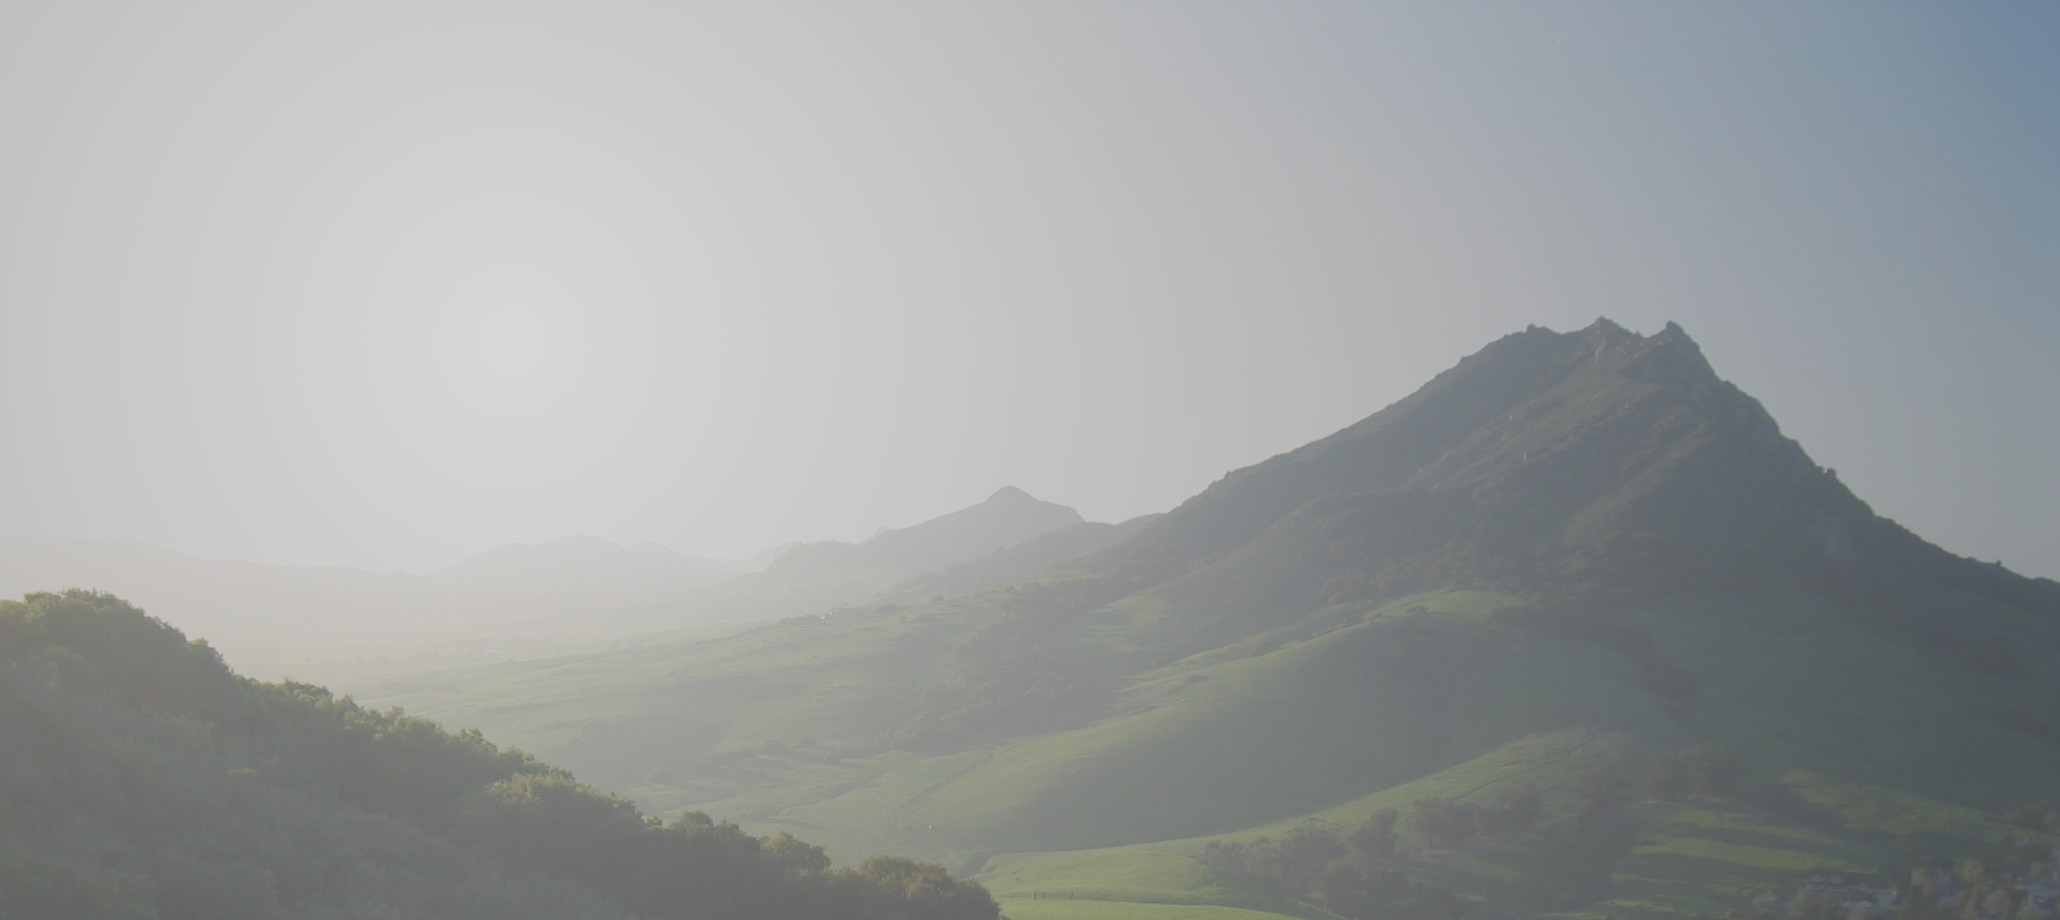
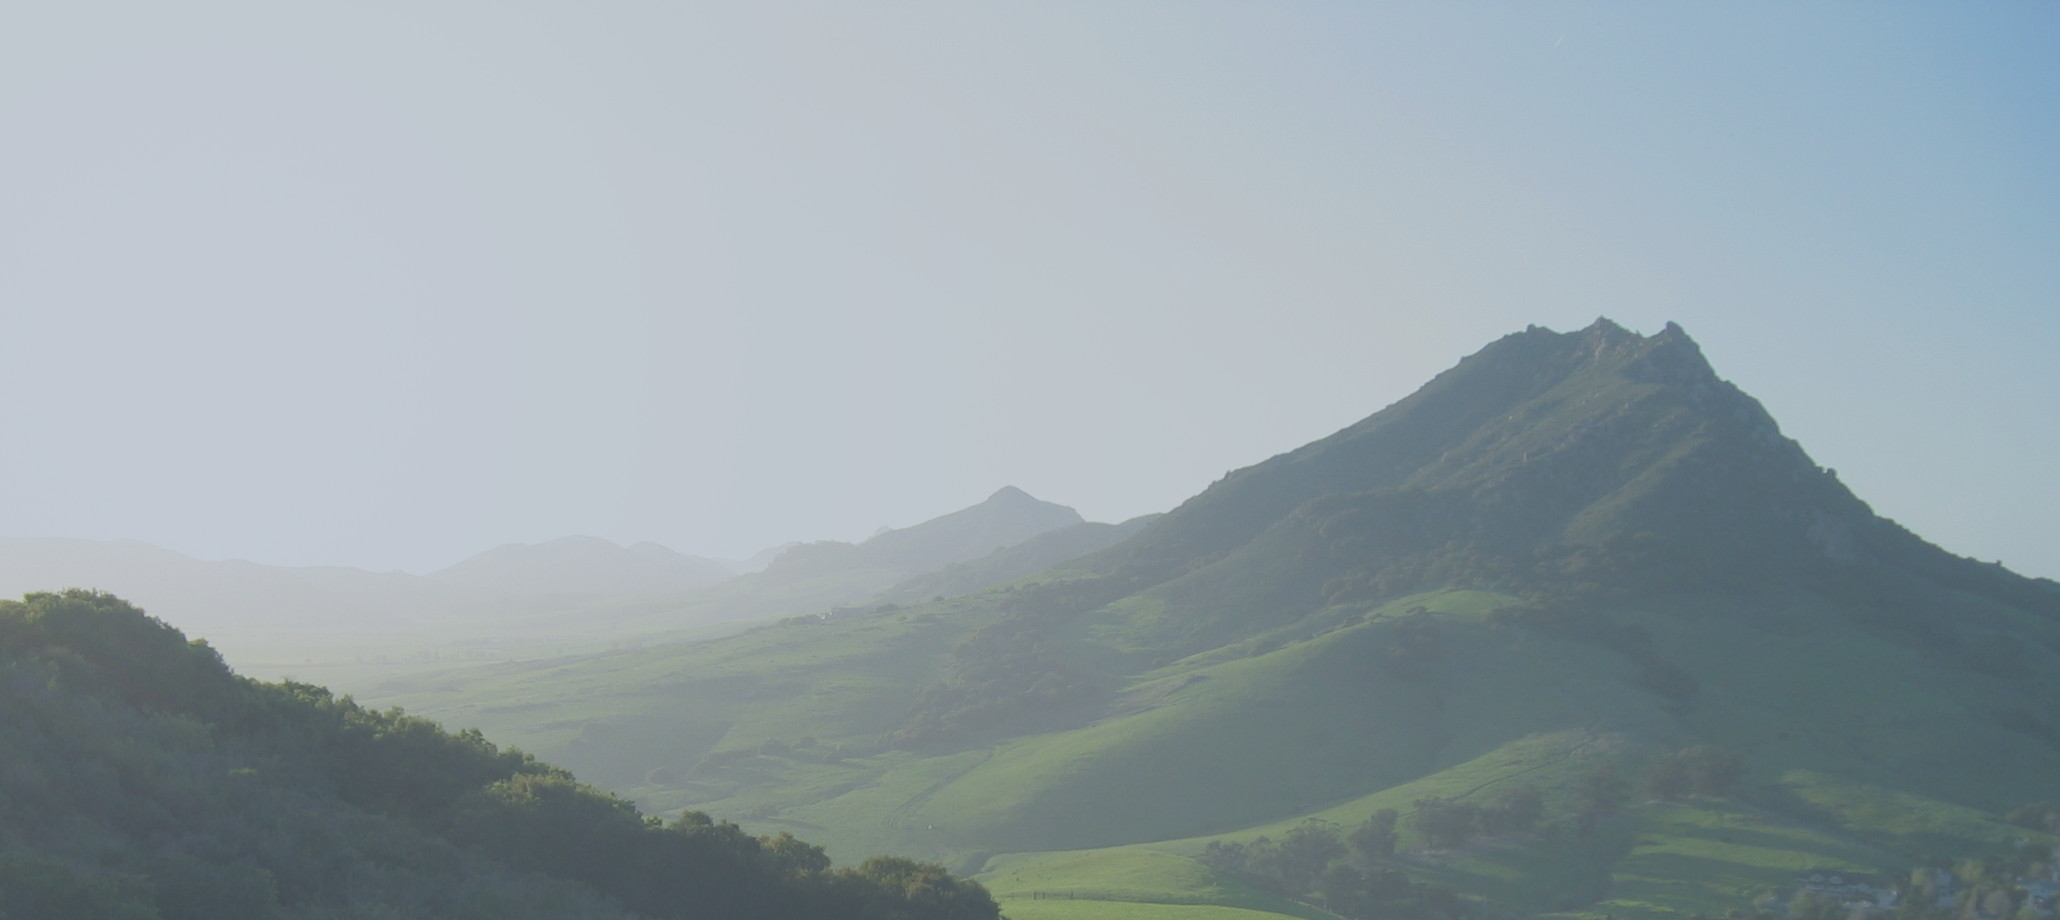
Add color variable to css so all accent colors can be changed at once.

Changed region(s): [[0.7146, 0.0, 1.0, 0.6391], [0.0, 0.6391, 0.4971, 1.0], [0.3107, 0.7304, 0.3417, 0.7609]]

diff --git a/LandingPage/codeslo-custom/codeslo-colors.css b/LandingPage/codeslo-custom/codeslo-colors.css
@@ -1,0 +1,229 @@
+
+:root {
+	--colorA: #529470; /* var(--colorA); */
+}
+
+::selection { background: var(--colorA); }
+
+::-moz-selection { background: var(--colorA); }
+
+::-webkit-selection { background:var(--colorA); }
+
+
+a,
+h1 > span:not(.nocolor):not(.badge),
+h2 > span:not(.nocolor):not(.badge),
+h3 > span:not(.nocolor):not(.badge),
+h4 > span:not(.nocolor):not(.badge),
+h5 > span:not(.nocolor):not(.badge),
+h6 > span:not(.nocolor):not(.badge),
+.header-extras li .he-text span,
+#primary-menu ul li:hover > a,
+#primary-menu ul li.current > a,
+#primary-menu div ul li:hover > a,
+#primary-menu div ul li.current > a,
+#primary-menu ul ul li:hover > a,
+#primary-menu ul li .mega-menu-content.style-2 ul.mega-menu-column > li.mega-menu-title > a:hover,
+#top-cart > a:hover,
+.top-cart-action span.top-checkout-price,
+.breadcrumb a:hover,
+.portfolio-filter li a:hover,
+.portfolio-desc h3 a:hover,
+.portfolio-overlay a:hover,
+#portfolio-navigation a:hover,
+.entry-title h2 a:hover,
+.entry-meta li a:hover,
+.post-timeline .entry:hover .entry-timeline,
+.post-timeline .entry:hover .timeline-divider,
+.ipost .entry-title h3 a:hover,
+.ipost .entry-title h4 a:hover,
+.spost .entry-title h4 a:hover,
+.mpost .entry-title h4 a:hover,
+.comment-content .comment-author a:hover,
+.product-title h3 a:hover,
+.single-product .product-title h2 a:hover,
+.product-price ins,
+.single-product .product-price,
+.feature-box.fbox-border .fbox-icon i,
+.feature-box.fbox-border .fbox-icon img,
+.feature-box.fbox-plain .fbox-icon i,
+.feature-box.fbox-plain .fbox-icon img,
+.process-steps li.active h5,
+.process-steps li.ui-tabs-active h5,
+.team-title span,
+.pricing-box.best-price .pricing-price,
+.btn-link,
+.dark .post-timeline .entry:hover .entry-timeline,
+.dark .post-timeline .entry:hover .timeline-divider,
+.clear-rating-active:hover { color: var(--colorA); }
+
+.color,
+.top-cart-item-desc a:hover,
+.portfolio-filter.style-3 li.activeFilter a,
+.faqlist li a:hover,
+.tagcloud a:hover,
+.dark .top-cart-item-desc a:hover,
+.iconlist-color li i,
+.dark.overlay-menu #header-wrap:not(.not-dark) #primary-menu > ul > li:hover > a,
+.dark.overlay-menu #header-wrap:not(.not-dark) #primary-menu > ul > li.current > a,
+.overlay-menu #primary-menu.dark > ul > li:hover > a,
+.overlay-menu #primary-menu.dark > ul > li.current > a,
+.nav-tree li:hover > a,
+.nav-tree li.current > a,
+.nav-tree li.active > a { color: var(--colorA) !important; }
+
+#primary-menu.style-3 > ul > li.current > a,
+#primary-menu.sub-title > ul > li:hover > a,
+#primary-menu.sub-title > ul > li.current > a,
+#primary-menu.sub-title > div > ul > li:hover > a,
+#primary-menu.sub-title > div > ul > li.current > a,
+#top-cart > a > span,
+#page-menu-wrap,
+#page-menu ul ul,
+#page-menu.dots-menu nav li.current a,
+#page-menu.dots-menu nav li div,
+.portfolio-filter li.activeFilter a,
+.portfolio-filter.style-4 li.activeFilter a:after,
+.portfolio-shuffle:hover,
+.entry-link:hover,
+.sale-flash,
+.button:not(.button-white):not(.button-dark):not(.button-border):not(.button-black):not(.button-red):not(.button-teal):not(.button-yellow):not(.button-green):not(.button-brown):not(.button-aqua):not(.button-purple):not(.button-leaf):not(.button-pink):not(.button-blue):not(.button-dirtygreen):not(.button-amber):not(.button-lime),
+.button.button-dark:hover,
+.promo.promo-flat,
+.feature-box .fbox-icon i,
+.feature-box .fbox-icon img,
+.fbox-effect.fbox-dark .fbox-icon i:hover,
+.fbox-effect.fbox-dark:hover .fbox-icon i,
+.fbox-border.fbox-effect.fbox-dark .fbox-icon i:after,
+.i-rounded:hover,
+.i-circled:hover,
+ul.tab-nav.tab-nav2 li.ui-state-active a,
+.testimonial .flex-control-nav li a,
+.skills li .progress,
+.owl-carousel .owl-dots .owl-dot,
+#gotoTop:hover,
+.dark .button-dark:hover,
+.dark .fbox-effect.fbox-dark .fbox-icon i:hover,
+.dark .fbox-effect.fbox-dark:hover .fbox-icon i,
+.dark .fbox-border.fbox-effect.fbox-dark .fbox-icon i:after,
+.dark .i-rounded:hover,
+.dark .i-circled:hover,
+.dark ul.tab-nav.tab-nav2 li.ui-state-active a,
+.dark .tagcloud a:hover,
+.ei-slider-thumbs li.ei-slider-element,
+.nav-pills .nav-link.active,
+.nav-pills .nav-link.active:hover,
+.nav-pills .nav-link.active:focus,
+.nav-pills .show > .nav-link,
+.checkbox-style:checked + .checkbox-style-1-label:before,
+.checkbox-style:checked + .checkbox-style-2-label:before,
+.checkbox-style:checked + .checkbox-style-3-label:before,
+.radio-style:checked + .radio-style-3-label:before,
+.irs-bar,
+.irs-from,
+.irs-to,
+.irs-single,
+input.switch-toggle-flat:checked + label,
+input.switch-toggle-flat:checked + label:after,
+input.switch-toggle-round:checked + label:before,
+.bootstrap-switch .bootstrap-switch-handle-on.bootstrap-switch-themecolor,
+.bootstrap-switch .bootstrap-switch-handle-off.bootstrap-switch-themecolor,
+.entry:after { background-color: var(--colorA); }
+
+.bgcolor,
+.button.button-3d:not(.button-white):not(.button-dark):not(.button-border):not(.button-black):not(.button-red):not(.button-teal):not(.button-yellow):not(.button-green):not(.button-brown):not(.button-aqua):not(.button-purple):not(.button-leaf):not(.button-pink):not(.button-blue):not(.button-dirtygreen):not(.button-amber):not(.button-lime):hover,
+.process-steps li.active a,
+.process-steps li.ui-tabs-active a,
+.sidenav > .ui-tabs-active > a,
+.sidenav > .ui-tabs-active > a:hover,
+.owl-carousel .owl-nav [class*=owl-]:hover,
+.page-item.active .page-link,
+.page-link:hover,
+.page-link:focus { background-color: var(--colorA) !important; }
+
+#primary-menu.style-4 > ul > li:hover > a,
+#primary-menu.style-4 > ul > li.current > a,
+.top-cart-item-image:hover,
+.portfolio-filter.style-3 li.activeFilter a,
+.post-timeline .entry:hover .entry-timeline,
+.post-timeline .entry:hover .timeline-divider,
+.cart-product-thumbnail img:hover,
+.feature-box.fbox-outline .fbox-icon,
+.feature-box.fbox-border .fbox-icon,
+.dark .top-cart-item-image:hover,
+.dark .post-timeline .entry:hover .entry-timeline,
+.dark .post-timeline .entry:hover .timeline-divider,
+.dark .cart-product-thumbnail img:hover,
+.heading-block.border-color:after { border-color: var(--colorA); }
+
+.top-links ul ul,
+.top-links ul div.top-link-section,
+#primary-menu ul ul:not(.mega-menu-column),
+#primary-menu ul li .mega-menu-content,
+#primary-menu.style-6 > ul > li > a:after,
+#primary-menu.style-6 > ul > li.current > a:after,
+#top-cart .top-cart-content,
+.fancy-title.title-border-color:before,
+.dark #primary-menu:not(.not-dark) ul ul,
+.dark #primary-menu:not(.not-dark) ul li .mega-menu-content,
+#primary-menu.dark ul ul,
+#primary-menu.dark ul li .mega-menu-content,
+.dark #primary-menu:not(.not-dark) ul li .mega-menu-content.style-2,
+#primary-menu.dark ul li .mega-menu-content.style-2,
+.dark #top-cart .top-cart-content,
+.tabs.tabs-tb ul.tab-nav li.ui-tabs-active a,
+.irs-from:after,
+.irs-single:after,
+.irs-to:after { border-top-color: var(--colorA); }
+
+#page-menu.dots-menu nav li div:after,
+.title-block { border-left-color: var(--colorA); }
+
+.title-block-right { border-right-color: var(--colorA); }
+
+.fancy-title.title-bottom-border h1,
+.fancy-title.title-bottom-border h2,
+.fancy-title.title-bottom-border h3,
+.fancy-title.title-bottom-border h4,
+.fancy-title.title-bottom-border h5,
+.fancy-title.title-bottom-border h6,
+.more-link,
+.tabs.tabs-bb ul.tab-nav li.ui-tabs-active a { border-bottom-color: var(--colorA); }
+
+.border-color,
+.process-steps li.active a,
+.process-steps li.ui-tabs-active a,
+.tagcloud a:hover,
+.page-item.active .page-link,
+.page-link:hover,
+.page-link:focus { border-color: var(--colorA) !important; }
+
+.fbox-effect.fbox-dark .fbox-icon i:after,
+.dark .fbox-effect.fbox-dark .fbox-icon i:after { box-shadow: 0 0 0 2px var(--colorA); }
+
+.fbox-border.fbox-effect.fbox-dark .fbox-icon i:hover,
+.fbox-border.fbox-effect.fbox-dark:hover .fbox-icon i,
+.dark .fbox-border.fbox-effect.fbox-dark .fbox-icon i:hover,
+.dark .fbox-border.fbox-effect.fbox-dark:hover .fbox-icon i { box-shadow: 0 0 0 1px var(--colorA); }
+
+
+@media only screen and (max-width: 991px) {
+
+	body:not(.dark) #header:not(.dark) #header-wrap:not(.dark) #primary-menu > ul > li:hover a,
+	body:not(.dark) #header:not(.dark) #header-wrap:not(.dark) #primary-menu > ul > li.current a,
+	body:not(.dark) #header:not(.dark) #header-wrap:not(.dark) #primary-menu > div > ul > li:hover a,
+	body:not(.dark) #header:not(.dark) #header-wrap:not(.dark) #primary-menu > div > ul > li.current a,
+	#primary-menu ul ul li:hover > a,
+	#primary-menu ul li .mega-menu-content.style-2 > ul > li.mega-menu-title:hover > a,
+	#primary-menu ul li .mega-menu-content.style-2 > ul > li.mega-menu-title > a:hover { color: var(--colorA) !important; }
+
+	#page-menu nav { background-color: var(--colorA); }
+
+}
+
+
+@media only screen and (max-width: 767px) {
+
+	.portfolio-filter li a:hover { color: var(--colorA); }
+
+}

diff --git a/LandingPage/header-floating.html b/LandingPage/header-floating.html
@@ -18,6 +18,7 @@
 
 	<link rel="stylesheet" href="css/responsive.css" type="text/css" />
 	<link rel="stylesheet" href="codeslo-custom/codeslo.css" type="text/css"/>
+	<link rel="stylesheet" href="codeslo-custom/codeslo-colors.css" type="text/css" />
 	<meta name="viewport" content="width=device-width, initial-scale=1" />
 
 	<!-- Document Title
